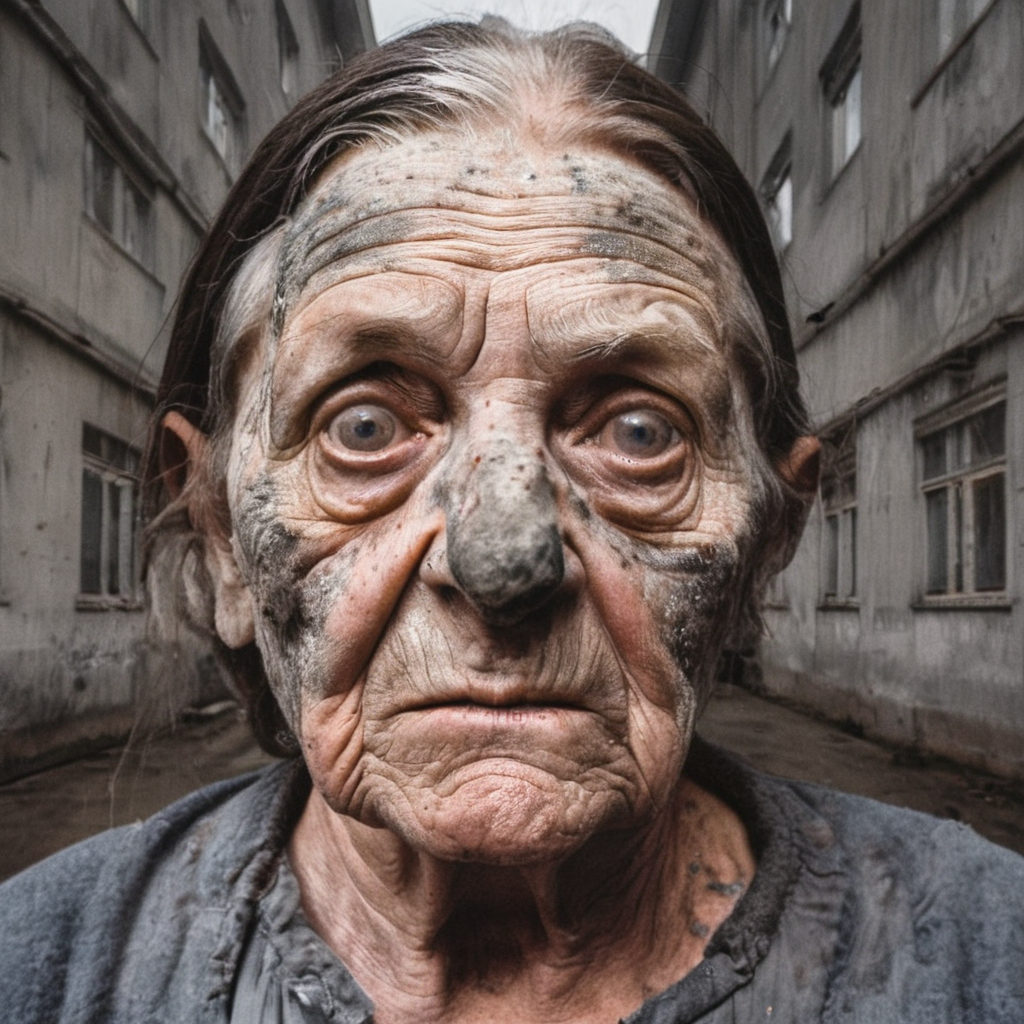
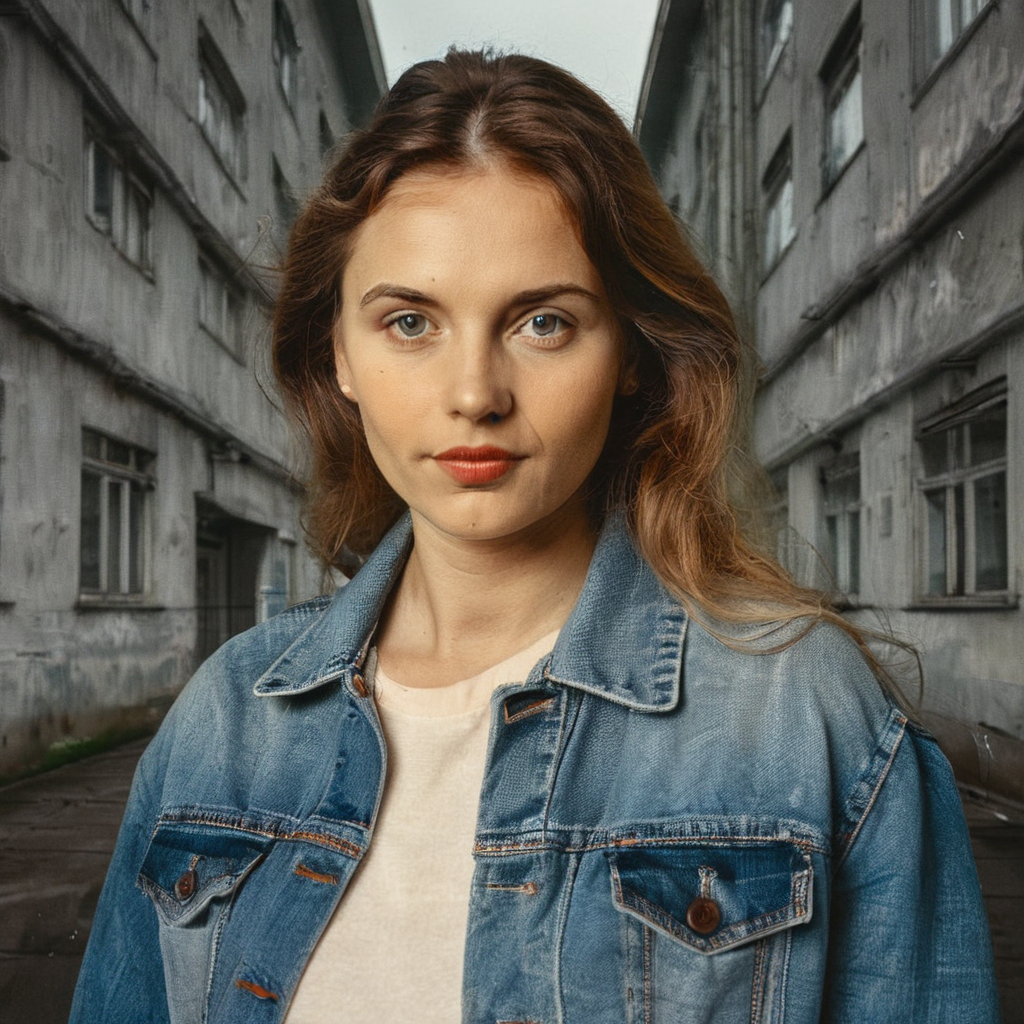
readme updated

diff --git a/main.py b/main.py
@@ -5,7 +5,7 @@ from PIL import Image
 from pathlib import Path
 from cutter import BirefNetCutter
 
-prompts = FactorPrompts(prompt="A realistic photo of a creepy old man in front of a soviet factory",
+prompts = FactorPrompts(prompt="A realistic photo of a beautiful young woman in front of a soviet factory",
                         negative_prompt="3d render, anime, collage")
 params = FactorInferenceParameters(
     extra={"strength": 0.8,
@@ -14,10 +14,10 @@ params = FactorInferenceParameters(
             })
 
 cutter = BirefNetCutter()
-cutter.remove_background(image= Image.open("sporous_305.png"),
+cutter.remove_background(image= Image.open("comrade_6.png"),
                          save_path=Path("sporous.png"))
 
-with Composer(interactive=True) as compo:
+with Composer(verbose=False) as compo:
     composition = compo.compose(background=Image.open("factory.png"),
                   figure=Image.open("sporous.png"),
                   scale=1)

diff --git a/README.md b/README.md
@@ -4,14 +4,16 @@
 # SDXL Inpainter Pipeline
 
 ## What does it do / plan to do?
-I built this lightweight blending utility to merge different layers generated by local SDXL instances and eliminate the "pasted-together" collage effect.
+I created this lightweight layer blender for local SDXL generation to smooth out raw collages and eliminate that "pasted-on" look.
+The core idea is to use a diffusion model to seamlessly blend two layers—globally harmonizing not just the lighting (as in IC-Light), but unifying all fine details and textures across the composition.
+In the latest commit, I achieved solid image quality by integrating ControlNet (Tile).
+You can feed in an already cropped RGBA image with an alpha channel or supply a raw portrait—to segment the subject automatically, just use one of the wrapper classes in cutter.py.
 
-The core idea is to leverage a diffusion model to seamlessly blend two layers together — smoothing not just global lighting (similar to IC-Light), but harmonizing all visual details and textures.
-
-Currently, the tool does not meet my expectations: it tends to degrade the collage quality rather than improve it, mainly due to sub-optimal inpainting hyperparameters.
-
-With a proper auto-tuning mechanism for generation hyperparameters, this tool could become significantly more useful. If you find this project interesting or useful, feel free to submit a Pull Request or open an Issue — I will be glad to continue working on it and polish it up!
-
+![alt text](factory.png)
+##### ++++++
+![alt text](comrade_6.png)
+##### ======
+![alt text](outCNet.png)
 ---
 
 <a name="русский"></a>
@@ -22,6 +24,12 @@ With a proper auto-tuning mechanism for generation hyperparameters, this tool co
 
 Смысл в том, чтобы с помощью диффузионной нейронки притереть два слоя друг к другу — глобально сгладить не только освещение (как в IC-Light), но в целом все детали.
 
-На текущий момент меня не удовлетворяет, как работает этот инструмент — он скорее портит коллаж, чем улучшает его, из-за неидеального подбора гиперпараметров инпейнта.
+В последнем коммите мне удалось добиться адекватного качества при помощи использования ControlNet типа Tile. 
 
-Если доделать небольшой автоподбор гиперпараметров генерации, возможно, этот инструмент будет куда полезнее. Если Вам был бы интересен этот инструмент — пишите пулл-реквест или открывайте ишью, и я обязательно его доделаю.
+Вы можете подать не только вырезанное изображение с альфа-каналом, но и "сырой" портрет -- для того, чтобы вырезать человека, примените один из классов-ярлыков в cutter.py
+![alt text](factory.png)
+##### ++++++
+![alt text](comrade_6.png)
+##### ======
+![alt text](outCNet.png)
+
